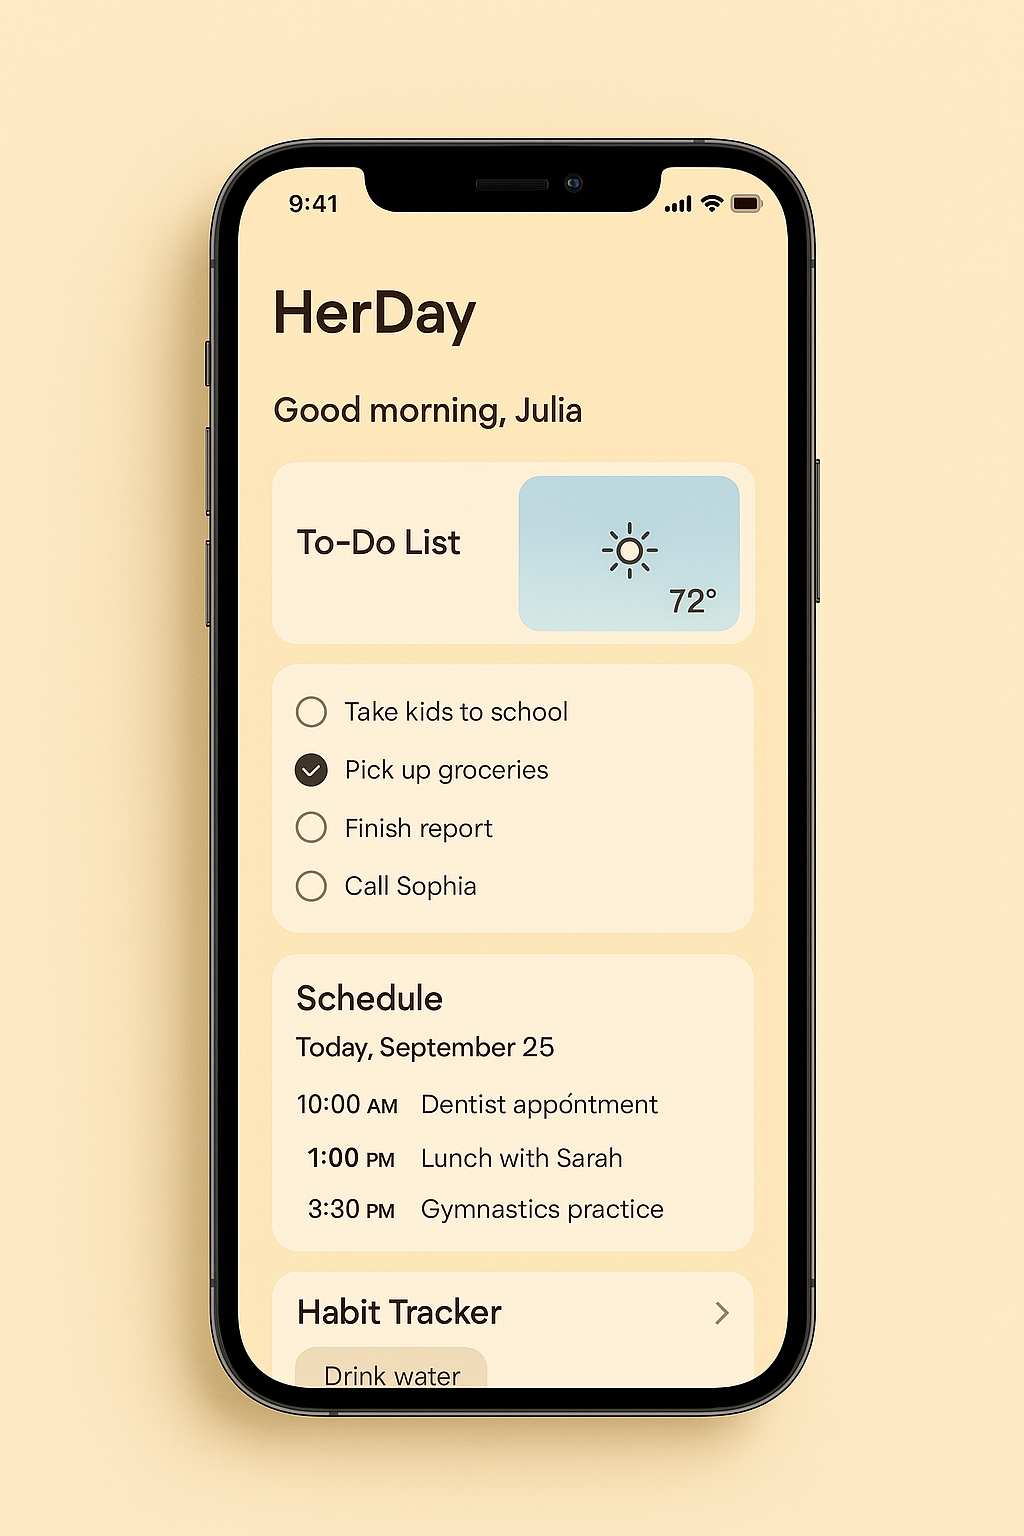
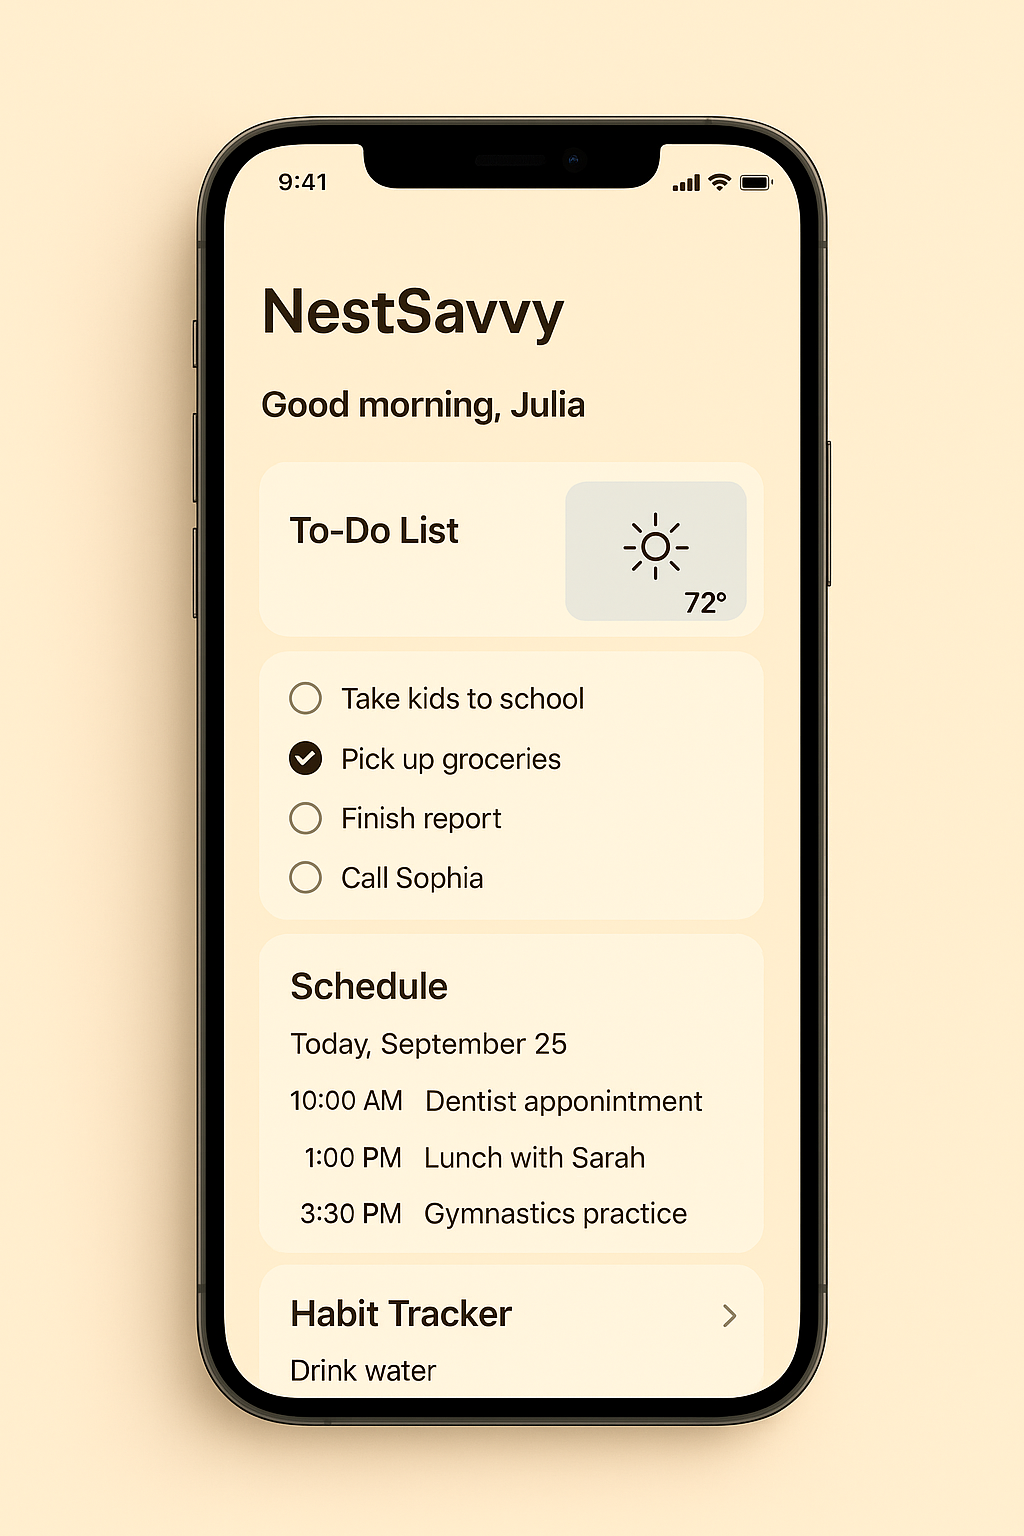
Update project image and constants

Changed region(s): [[0.1875, 0.0625, 0.8125, 0.9375]]

diff --git a/src/constants/index.js b/src/constants/index.js
@@ -40,7 +40,7 @@ export const EXPERIENCES = [
 
 export const PROJECTS = [
   {
-    title: "HerDay – Smart Planner App for Modern Motherhood (Coming Soon)",
+    title: "NestSavvy – Smart Planner App for Modern Motherhood (Coming Soon)",
     image: herDay,
     description:"HerDay is a mobile-first productivity app designed to simplify scheduling, task management, and daily routines for busy mothers. It features a smart in-built planner and a fully customizable layout, enabling moms to personalize their planning experience—whether it's organizing grocery runs, tracking family activities, or managing self-care. Built with Flutter for iOS and Android, and powered by a robust backend using Node.js, Apollo Server, GraphQL, Prisma ORM, and PostgreSQL, HerDay ensures speed, flexibility, and scalability. Currently in development, HerDay emphasizes user-centered design, seamless UX, and strong data privacy. Future updates will include AI-driven smart suggestions, intelligent reminders, and voice-assisted task input.",
     technologies: ["Flutter", "Dart", "Node", "GraphQl", "Apollo Server", "PostgreSQL Motion", "Supabase"],
